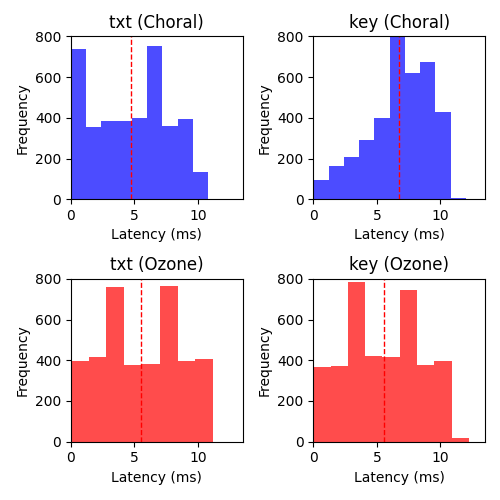
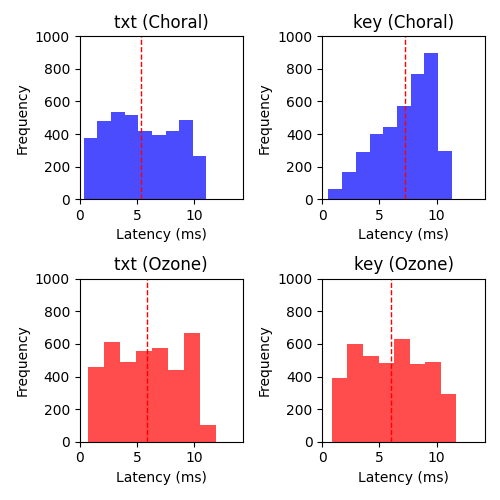
Fixed rounding bug in histograms

diff --git a/scripts/plot.py b/scripts/plot.py
@@ -9,6 +9,33 @@ import sys
 # Senders
 ####################################################################################################
 
+def plot_cdf_from_csv(filename, inputs, show):
+    fig, axes = plt.subplots(nrows=2, ncols=2, figsize=(5, 5))
+    axes = axes.flatten()
+
+    for i, title in enumerate(inputs.keys()):
+        file_path = inputs[title]
+        # Reading data from CSV file
+        data = pd.read_csv(file_path, header=None)
+        # Ignore the first 100 entries; warming up the JVM
+        data = data.iloc[100:]
+        # Sort
+        sorted_data = data[0].sort_values()
+        # Compute the CDF values
+        cdf = sorted_data.rank(method='first') / len(sorted_data)
+
+        axes[i].plot(sorted_data, cdf, marker='.', linestyle='none')
+        axes[i].set_xlabel('Data')
+        axes[i].set_ylabel('CDF')
+        axes[i].set_xlim(0, 15)
+
+    plt.tight_layout()
+    if show:
+        plt.show()
+    else:
+        plt.savefig(filename, format='png')
+        print(f'Plot saved to {filename}.')
+
 def plot_histogram_from_csv(filename, inputs, bins, show):
     fig, axes = plt.subplots(nrows=2, ncols=2, figsize=(5, 5))
     axes = axes.flatten()
@@ -22,7 +49,7 @@ def plot_histogram_from_csv(filename, inputs, bins, show):
         # Ignore the first 100 entries; warming up the JVM
         data = data.iloc[100:]
         # Convert each datum to integer
-        data = data.astype(int)
+        #data = data.astype(int)
 
         maxima[i] = data[0].quantile(0.999)
 
@@ -37,7 +64,7 @@ def plot_histogram_from_csv(filename, inputs, bins, show):
     # Set the same x and y limits for all subplots
     for i in range(4):
         axes[i].set_xlim(0, max(maxima))
-        axes[i].set_ylim(0, 800)
+        axes[i].set_ylim(0, 1000)
 
     plt.tight_layout()
     if show:
